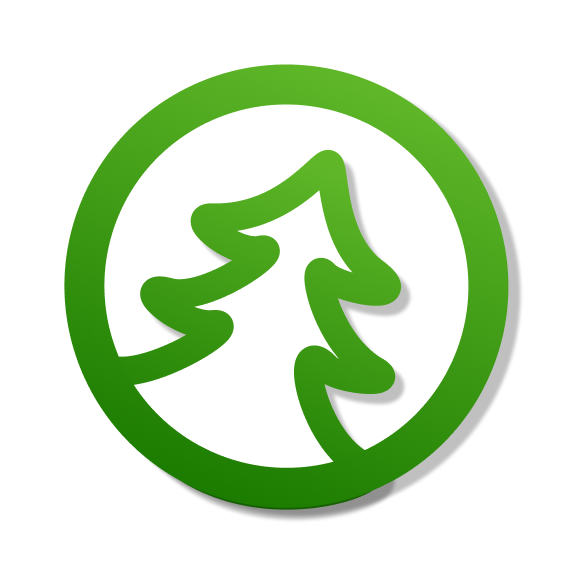
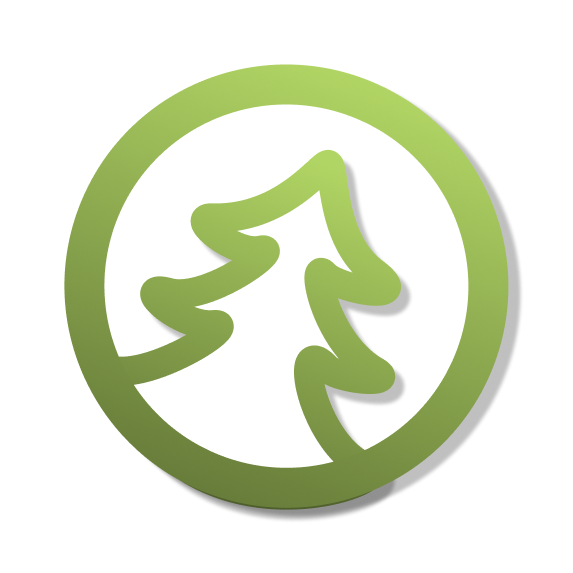
Changed some colours to better fit

Changed region(s): [[0.089, 0.089, 0.8901, 0.8901]]

diff --git a/src/Passport/PassportArea/PassportArea.cpp b/src/Passport/PassportArea/PassportArea.cpp
@@ -16,27 +16,19 @@ void PassportArea::draw(sf::RenderWindow& window)
 {
    if (is_visible) {
      window.draw(passport_area);
-
-     sf::RectangleShape rect;
-     rect.setFillColor(sf::Color::White);
-     rect.setSize({10.f, 10.f});
-     sf::Vector2f pos = passport_area.getPosition() + passport_lock_point_offset;
-     rect.setPosition(pos);
-     window.draw(rect);
    }
 
 }
 
 
-bool PassportArea::isPassportInArea(Passport* passport)
-{
+bool PassportArea::isPassportInArea(Passport* passport) const {
    if (passport_area.getGlobalBounds().contains(passport->getPassportPosition())) {
      return true;
    }
    return false;
 }
 
-sf::Vector2f PassportArea::getPassportLockPosition() {
+sf::Vector2f PassportArea::getPassportLockPosition() const {
    sf::Vector2f pos = passport_area.getPosition() + passport_lock_point_offset;
    return pos;
  }
@@ -62,6 +54,7 @@ bool PassportArea::loadTextures(std::string texture_loc) {
    }
    passport_area.setTexture(passport_area_texture);
    passport_area.setScale(0.5f, 0.5f);
+   return true;
  }
 
 void PassportArea::setAreaPosition(sf::Vector2f &pos, sf::Sprite& background_sprite)

diff --git a/src/Game.h b/src/Game.h
@@ -80,7 +80,7 @@ private:
   sf::View game_view;
   float current_zoom = 1.0f;
 
-  GameState game_state = GameState::MENU; // Todo: Change to Menu and add menu
+  GameState game_state = GameState::MENU;
 
   // Background
   sf::Texture background_texture;
@@ -126,11 +126,10 @@ private:
 
   // Feedback
   FeedbackFade feedback;
-  sf::Color correct_feedback = sf::Color(95, 183, 40, 255);
-  sf::Color incorrect_feedback = sf::Color(183, 57, 40, 255);
+  sf::Color incorrect_feedback = sf::Color(234, 147, 147, 255);
+  sf::Color correct_feedback = sf::Color(177, 213, 100, 255);
 
-
-  const float MATCH_PROBABILITY = 0.2f;
+  const float MATCH_PROBABILITY = 0.4f;
 
 
 };

diff --git a/src/Game.cpp b/src/Game.cpp
@@ -463,7 +463,7 @@ void Game::createNewRound() {
       std::cout << "Passport not matching" << std::endl;
 
     // Don't match so generate another for passport
-    passport_character_data = std::make_shared<CharacterAssetData>(character_creator.ChooseCharacter()); // Todo: Move to a new func to ensure its not the same
+    passport_character_data = std::make_shared<CharacterAssetData>(character_creator.ChooseCharacter());
   }
 
   // Send data to passport

diff --git a/src/Passport/PassportStamp/PassportStamp.h b/src/Passport/PassportStamp/PassportStamp.h
@@ -72,8 +72,8 @@ private:
 
   // Colours
   sf::Color default_button_colour = sf::Color::White;
-  sf::Color deny_hover_colour = sf::Color::Red; // Todo: Make fit better
-  sf::Color approve_hover_colour = sf::Color::Green; // Todo: Make fit better
+  sf::Color deny_hover_colour = sf::Color(247, 75, 75, 255);
+  sf::Color approve_hover_colour = sf::Color(177, 213, 100, 255);
 
   // State
   bool is_visible = false;

diff --git a/src/Passport/PassportArea/PassportArea.h b/src/Passport/PassportArea/PassportArea.h
@@ -23,9 +23,9 @@ public:
   void init(std::string texture_loc);
   void draw(sf::RenderWindow& window);
 
-  bool isPassportInArea(Passport* passport);
+  bool isPassportInArea(Passport* passport) const;
 
-  sf::Vector2f getPassportLockPosition();
+  sf::Vector2f getPassportLockPosition() const;
 
   void setVisible(bool visible);
   bool isVisible() const { return is_visible; };
